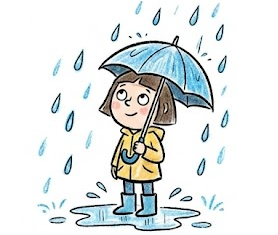
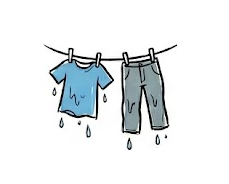
adds test env

diff --git a/mc-template.html b/mc-template.html
@@ -41,6 +41,7 @@
 
       .header-ui {
         display: flex;
+        flex-direction: column;
         align-items: center;
         gap: 20px;
         margin-bottom: 20px;
@@ -48,6 +49,21 @@
         padding: 10px 25px;
         border-radius: 50px;
         box-shadow: 0 4px 10px rgba(0, 0, 0, 0.05);
+        width: 95%;
+        max-width: 800px;
+      }
+
+      /* .header-ui div {
+        display: flex;
+        flex-direction: row;
+        align-items: center;
+      } */
+
+      .btn-nav-container {
+        display: flex;
+        flex-direction: row;
+        align-items: center;
+        gap: 2rem;
       }
 
       /* Updated Dropdown CSS */
@@ -67,12 +83,14 @@
         background-repeat: no-repeat;
         background-position: right 10px center;
         background-size: 15px;
+        width: 240px;
       }
 
       .star-gui {
         color: #ffd600;
         font-size: 1.5rem;
         letter-spacing: 5px;
+        text-align: center;
       }
       .main-card {
         background: white;
@@ -282,15 +300,19 @@
     <div id="feedbackBanner"></div>
 
     <div class="header-ui">
-      <!-- Previous Button -->
+      <div>
+        <select
+          id="qSelect"
+          onchange="handleDropdownChange(this.value)"
+        ></select>
 
-      <select id="qSelect" onchange="handleDropdownChange(this.value)"></select>
-
-      <!-- Next Button -->
-
-      <div id="starContainer" class="star-gui"></div>
+        <div id="starContainer" class="star-gui"></div>
+      </div>
+      <div class="btn-nav-container">
+        <button class="btn-nav" onclick="changeQuestion(-1)">上一个</button>
+        <button class="btn-nav" onclick="changeQuestion(1)">下一个</button>
+      </div>
     </div>
-
     <div class="main-card">
       <div class="content-row">
         <!-- New Image Element -->
@@ -314,10 +336,6 @@
           提交答案 (Submit)
         </button>
         <button class="btn" onclick="clearBox()">重置 (Clear)</button>
-        <div class="custom-nav-buttons">
-          <button class="btn-nav" onclick="changeQuestion(-1)">上一个</button>
-          <button class="btn-nav" onclick="changeQuestion(1)">下一个</button>
-        </div>
       </div>
     </div>
 
@@ -335,11 +353,9 @@
     </button>
 
     <script>
-      // Data Structure Updated
-      // Example: { sentence: [...], blanks: [1], choices: [...], answers: [1], audio_file: "...", natural_audio_file: "..." }
       const data = JSON.parse(localStorage.getItem("currentLesson")) || {};
-      const questions = data.data;
-      formatQuestions(questions);
+      const questions = formatQuestions(data.data);
+
       let currentIdx = 0;
       let isFirstTry = true;
       let starsEarned = new Array(questions.length).fill(false);
@@ -380,11 +396,13 @@
       function formatQuestions(questions) {
         questions.forEach((v, i) => {
           questions[i].audio_file = `./audio/${questions[i].audio_file}`;
-          questions[i].natural_audio_file =
-            `./audio/${questions[i].natural_audio_file}`;
+          questions[i].natural_audio_file = questions[i].natural_audio_file
+            ? `./audio/${questions[i].natural_audio_file}`
+            : "";
           questions[i].image = `./images/${questions[i].image}`;
           questions[i].sentence = questions[i].sentence.split(" ");
         });
+        return questions;
       }
 
       function changeQuestion(direction) {
@@ -433,12 +451,13 @@
         // UI Reset
         const sentenceArea = document.getElementById("sentenceArea");
         const choicesArea = document.getElementById("choicesArea");
-        const audioGroup = document.querySelector(".audio-buttons");
+        const audioBtn = document.querySelector(".btn-audio");
+        const naturalAudioBtn = document.querySelector(".btn-natural");
 
         sentenceArea.innerHTML = "";
         choicesArea.innerHTML = "";
-        audioGroup.classList.remove("visible"); // Hide audio buttons for new question
-
+        audioBtn.classList.remove("visible"); // Hide audio buttons for new question
+        naturalAudioBtn.classList.remove("visible");
         const q = questions[currentIdx];
 
         // 1. Handle Image Loading
@@ -564,7 +583,8 @@
         const boxes = document.querySelectorAll(".blank-box");
         let allCorrect = true;
 
-        document.querySelector(".audio-buttons").classList.add("visible");
+        document.querySelector(".btn-audio").classList.add("visible");
+        document.querySelector(".btn-natural").classList.add("visible");
 
         boxes.forEach((box) => {
           const blankIdx = parseInt(box.dataset.blankIndex);